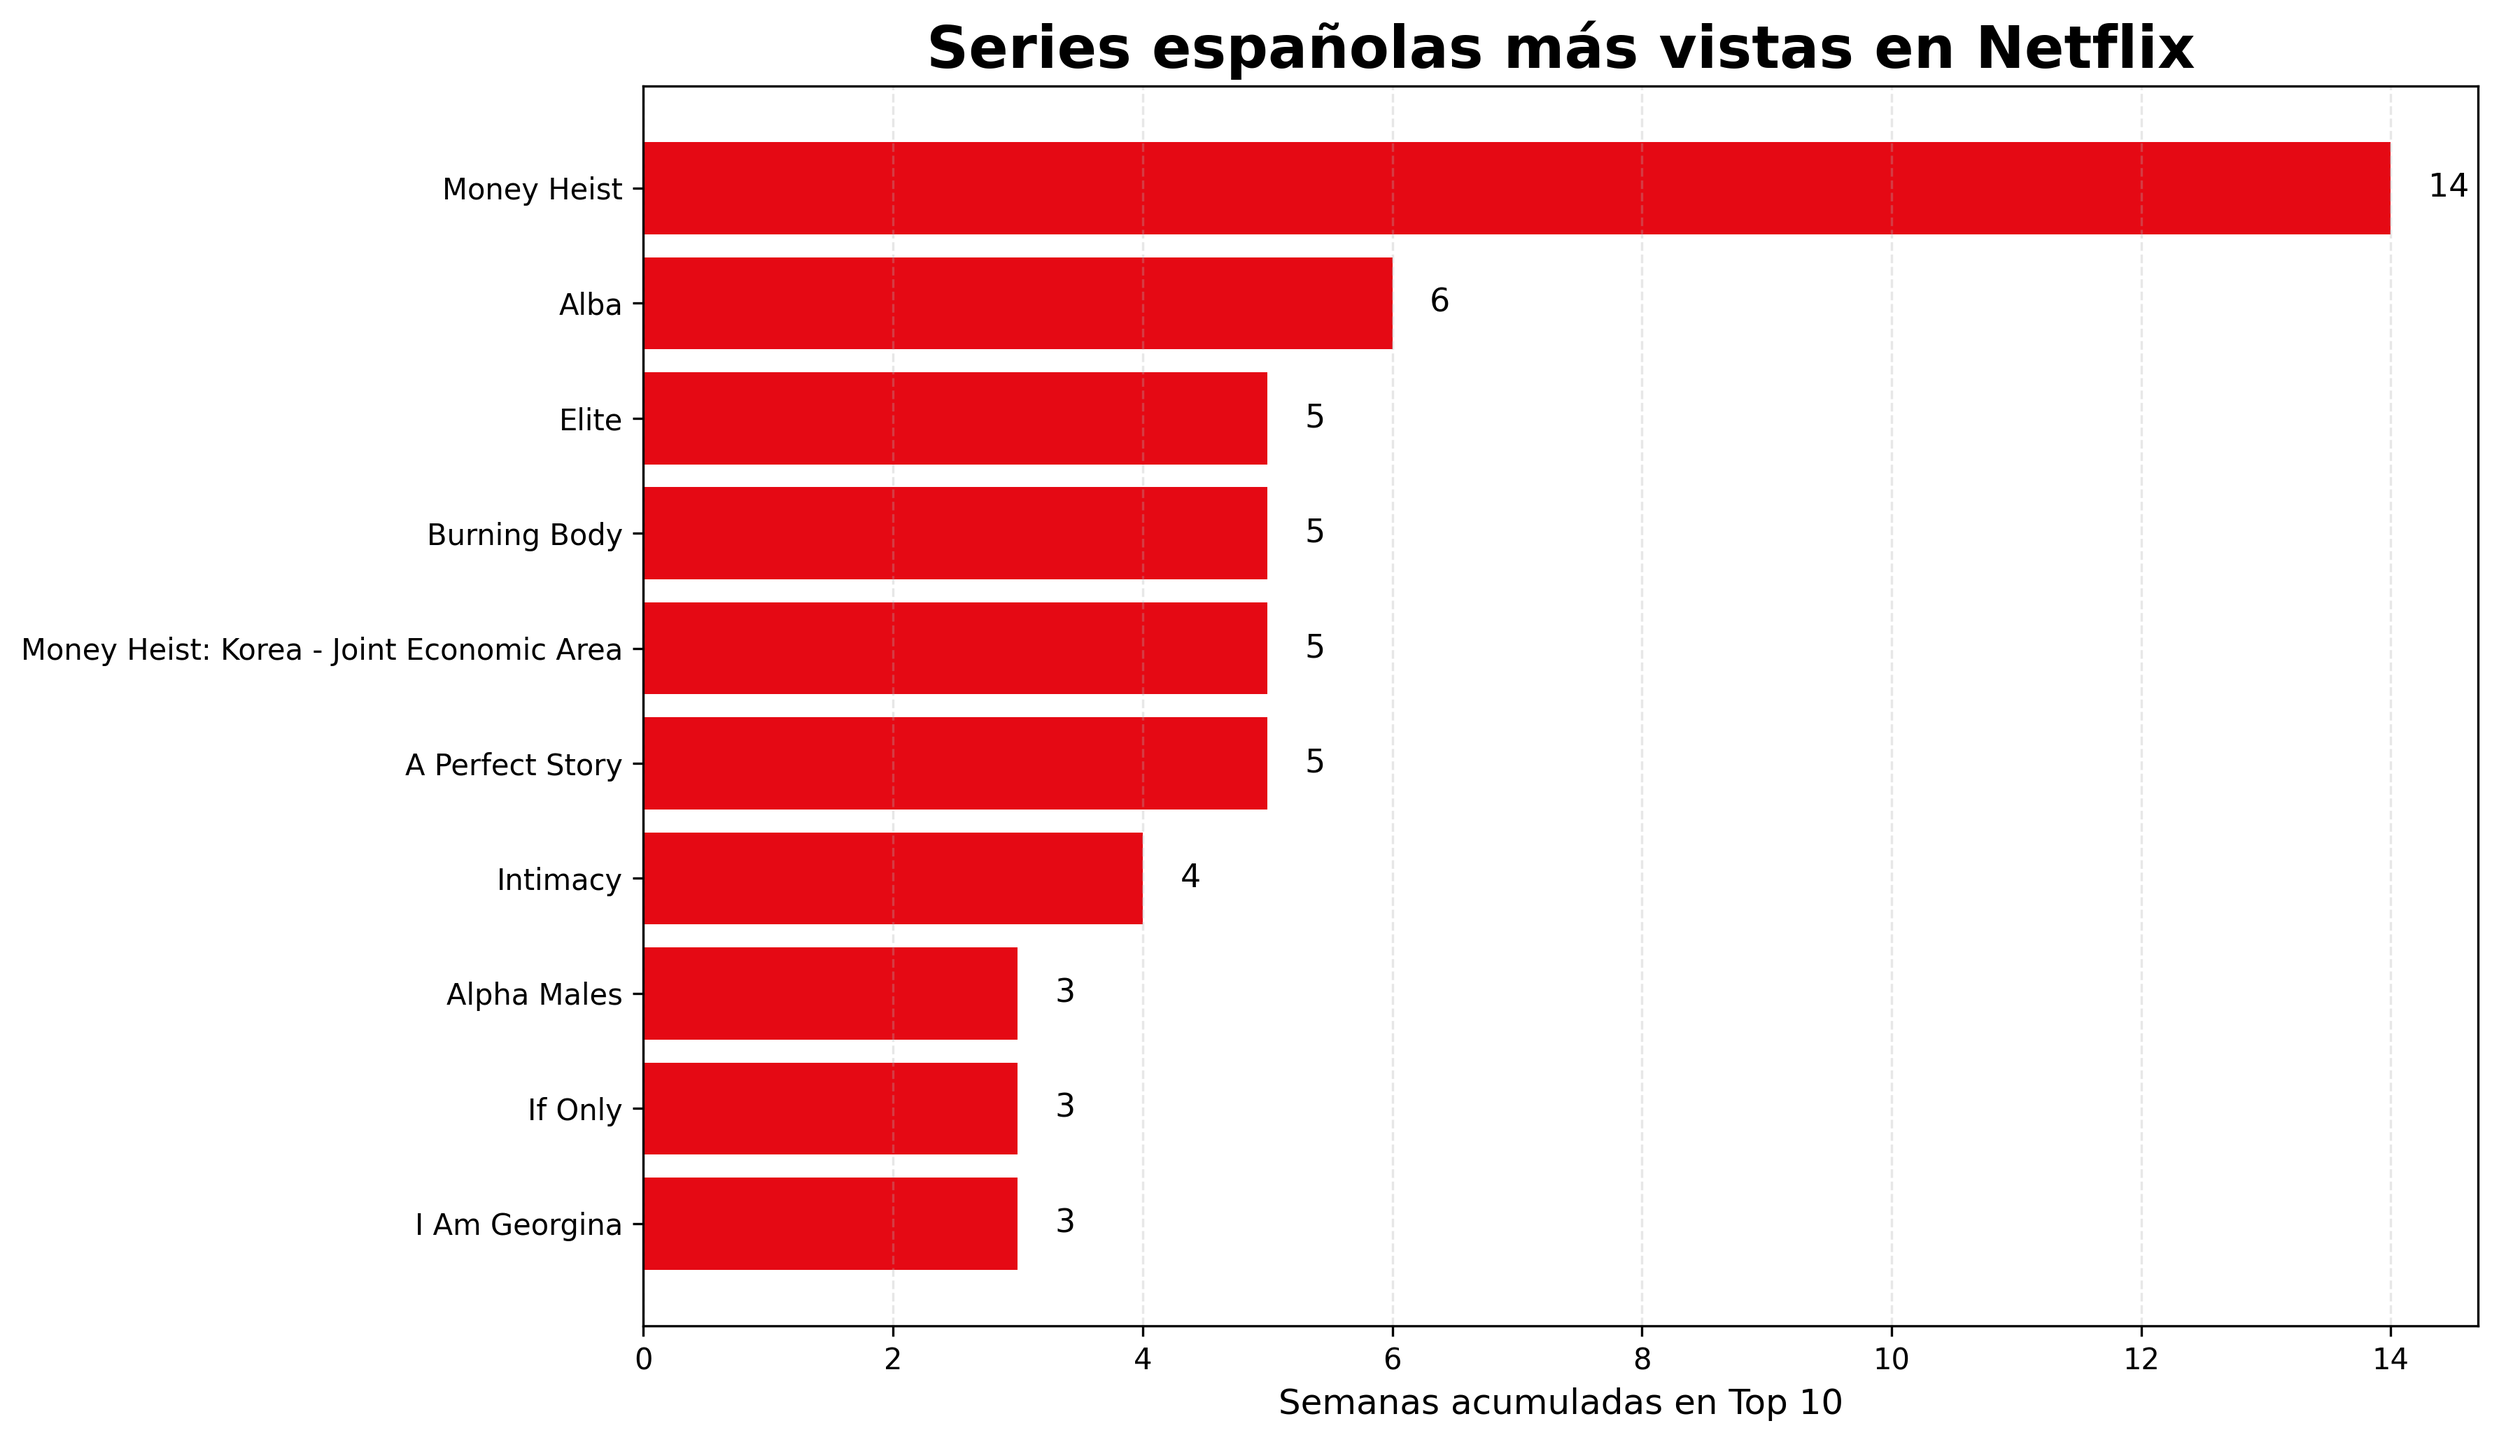
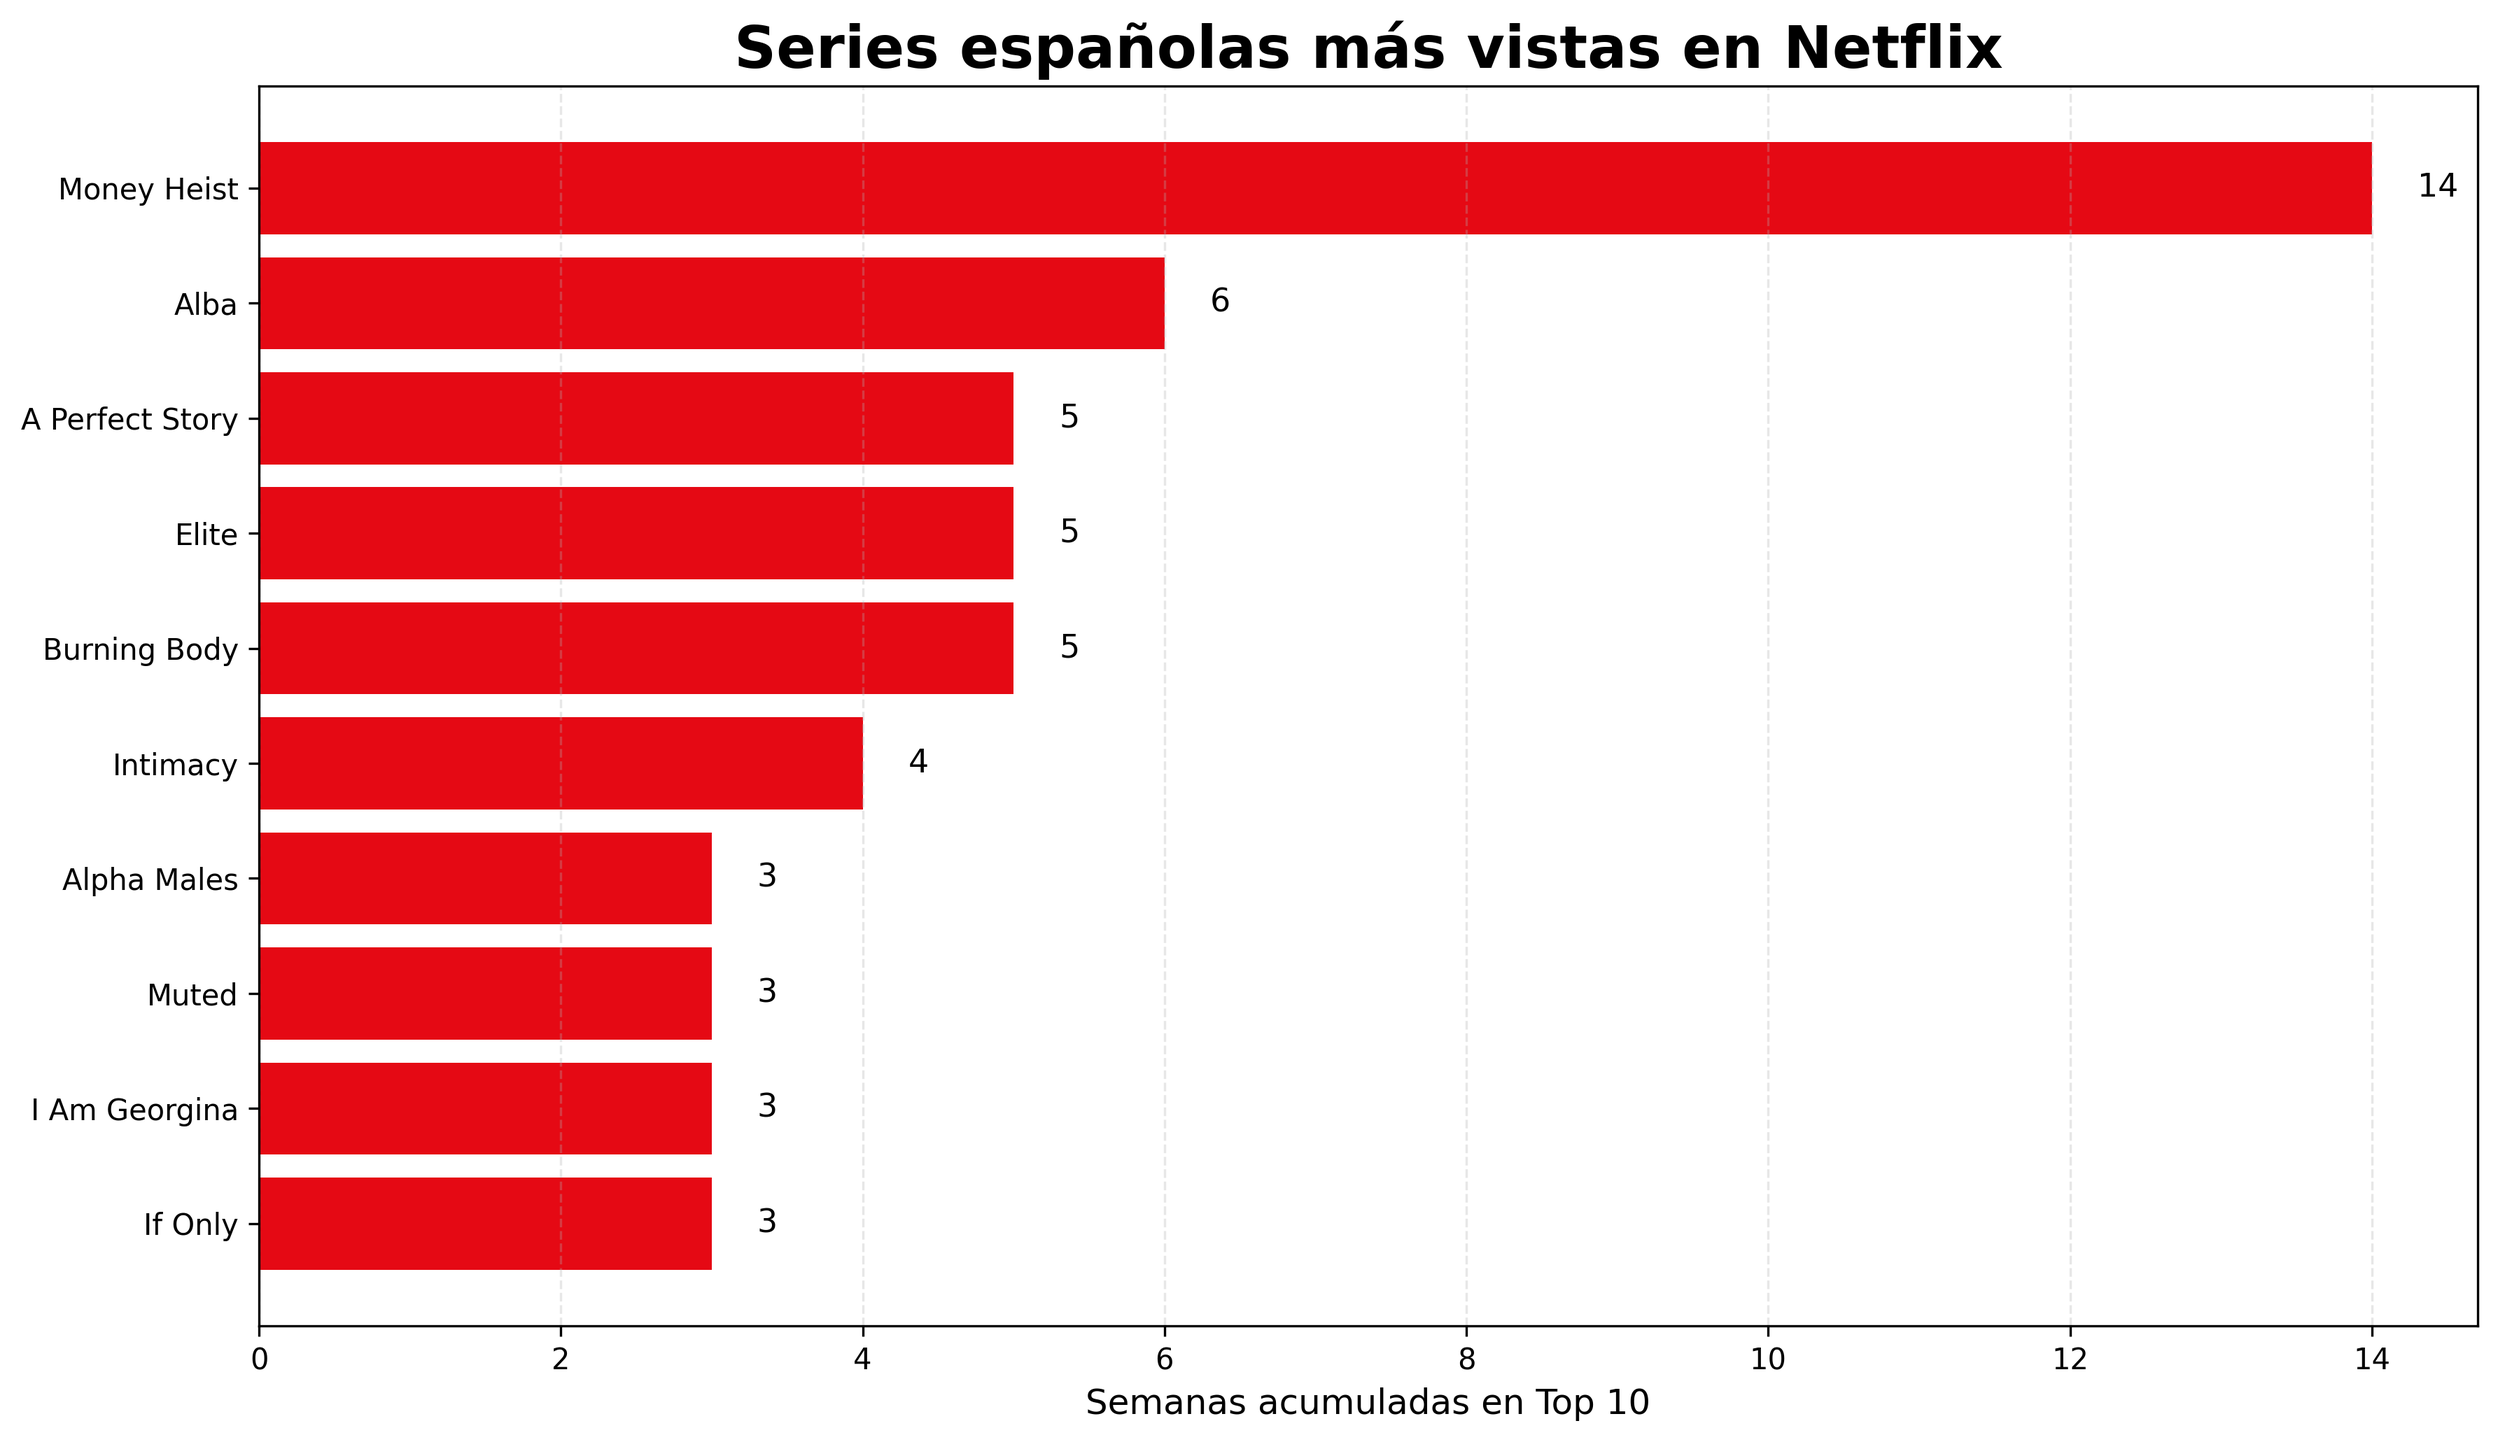
Eda_11_05_4

diff --git a/Código/código/codigo.py b/Código/código/codigo.py
@@ -463,10 +463,17 @@ print(f"Imagen guardada en: {ruta_imagen}")
 # Importamos el csv
 netflix_espanolas = pd.read_csv("../data/series_espanolas_netflix_global.csv")
 
+# Hay un error en el csv ya que aparece la serie con la version Coreana, la vamos a elmininar
+
+series_espanolas = netflix_espanolas[
+    ~netflix_espanolas["show_title"].isin([
+        "Money Heist: Korea - Joint Economic Area",
+    ])
+]
 # Agrupamos las series y las ordenamos
 
-netflix_espanolas = (
-     netflix_espanolas.groupby("show_title")["cumulative_weeks_in_top_10"]
+series_espanolas = (
+     series_espanolas.groupby("show_title")["cumulative_weeks_in_top_10"]
     .max()
     .sort_values(ascending=False)
 )
@@ -474,7 +481,7 @@ netflix_espanolas = (
 # Realizamos el diagrama y guardamos la imagen que se genere
 
 # Top 10 series
-top10 = netflix_espanolas.head(10)
+top10 = series_espanolas.head(10)
 
 # Estilo claro
 plt.style.use("default")
